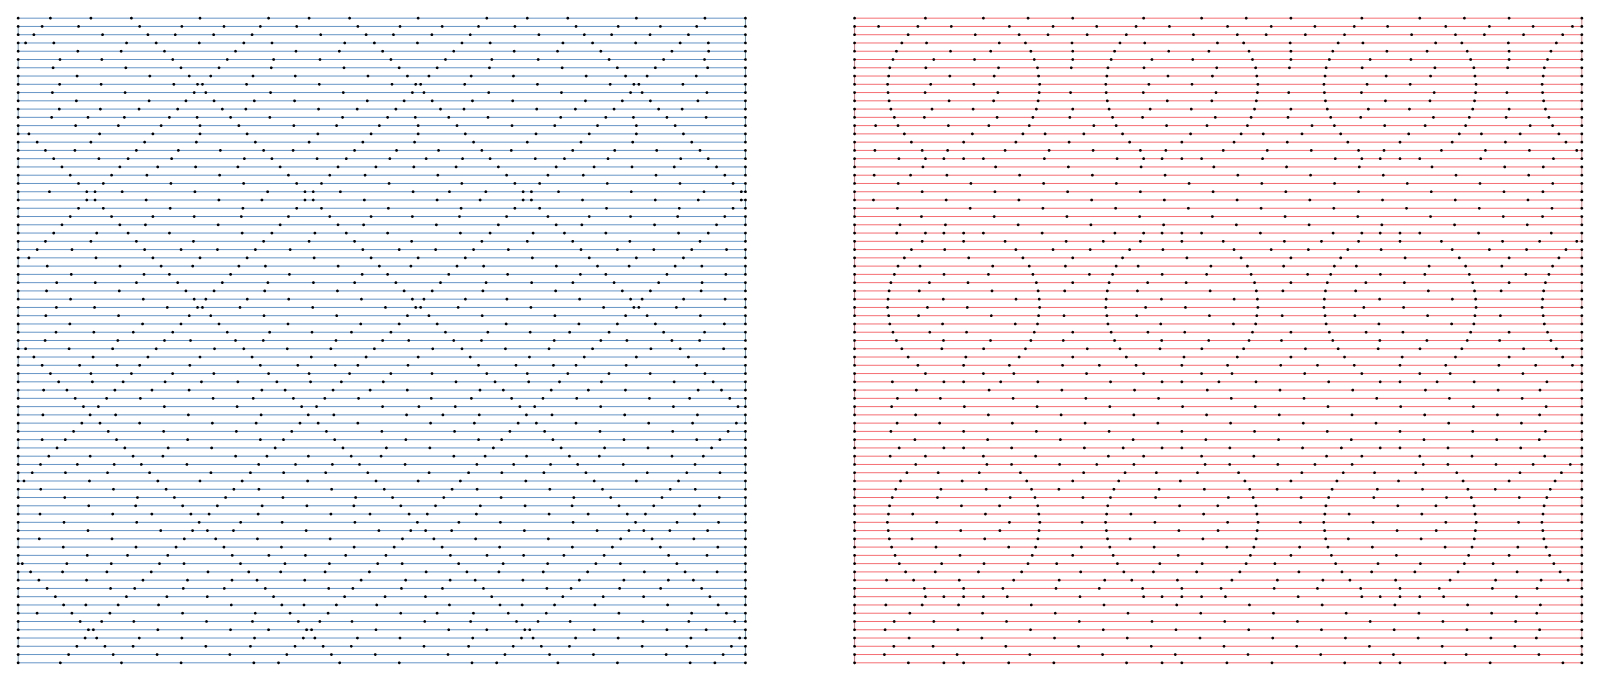
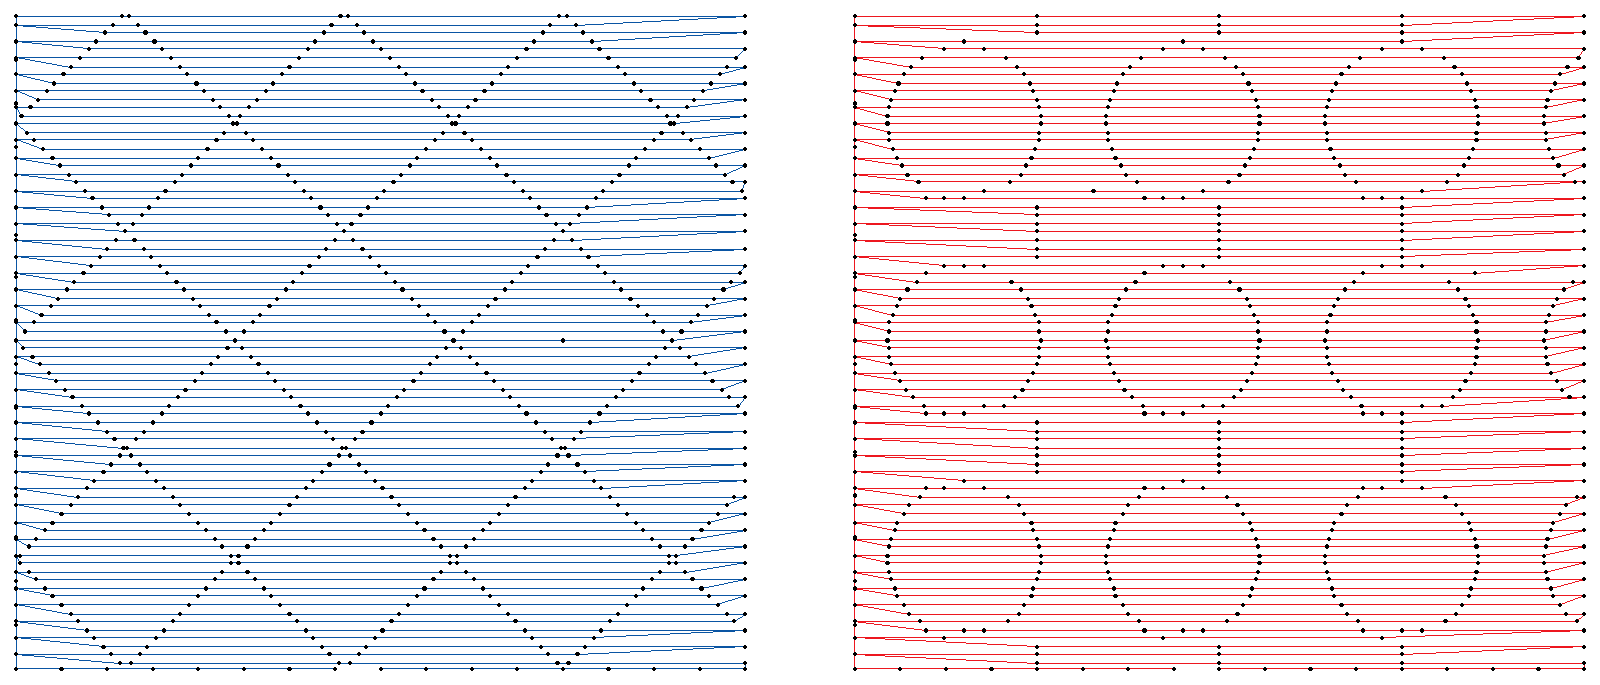
Motif fill travels and ties as PE-DESIGN 11.50 (130 needle points as PE); engine-programmable-fill.png regenerated
PE-DESIGN's motif fill (compat/reference/stitches/motif-fill-2pt.pes) starts at the row nearest
the start point, walks the outline between rows and to and from the start point in even steps
of at most 2 mm (5 mm in three), and ties in and locks like fill. OpenStitch started at the far
row, joined rows with one stitch at the run pitch and travelled at 2.5 mm: 103 needle points
against PE's 130, now 130. The change is scoped to motif fill: the shared join keeps the run
pitch for every other region type (the concentric and spiral references are unchanged); the
spec motif-fill-2pt gains a count check within 3 %.

docs/images/engine-programmable-fill.png shows the PE-DESIGN tiling from #165, drawn by the new
tools/engine_image.py (stitchtool exec, PES export, stitches in thread colours, needle points
as dots); the example turns under sewing off so the pattern shows.

Docs: FILE_FORMATS, FEATURE_MATRIX, COMPATIBILITY_AUDIT, ROADMAP, ARCHITECTURE.

diff --git a/tools/engine_image.py b/tools/engine_image.py
@@ -1,0 +1,87 @@
+#!/usr/bin/env python3
+"""Draws an examples/*.json design as a docs/images/engine-*.png stitch plot.
+
+    cargo build -p stitchtool
+    python3 tools/engine_image.py examples/programmable-fill.json docs/images/engine-programmable-fill.png
+
+The script runs with `stitchtool exec` in a temporary folder, the design is exported as PES and
+its stitches are read back (tools/pescmp.py's reader). Each colour block is drawn in the thread
+colour of the object it belongs to (the example's shapes in order, one block each), stitches as
+lines and needle points as black dots, on white, at the width given (default 1600 px) with a
+small margin. Jumps and trims are not drawn. Needs numpy and Pillow.
+"""
+
+import argparse
+import json
+import shutil
+import subprocess
+import sys
+import tempfile
+from pathlib import Path
+
+from PIL import Image, ImageDraw
+
+ROOT = Path(__file__).resolve().parent.parent
+sys.dont_write_bytecode = True
+sys.path.insert(0, str(ROOT / "tools"))
+import pescmp  # noqa: E402
+
+EXE = ROOT / "target" / "debug" / ("stitchtool.exe" if sys.platform == "win32" else "stitchtool")
+MARGIN = 16
+
+
+def run(script: Path, work: Path):
+    steps = json.loads(script.read_text(encoding="utf-8"))
+    ids = [i + 1 for i, s in enumerate(s for s in steps if s.get("command", "").startswith("shape."))]
+    steps = steps + [{"command": "design.export", "params": {"path": "out.pes"}}]
+    steps += [{"command": "object.get", "params": {"id": i}, "id": f"object-{i}"} for i in ids]
+    (work / "script.json").write_text(json.dumps(steps), encoding="utf-8")
+    out = subprocess.run([str(EXE), "exec", str(work / "script.json")], capture_output=True, text=True, check=True)
+    replies = [json.loads(line) for line in out.stdout.splitlines() if line.strip()]
+    colours = []
+    for r in replies[-len(ids):]:
+        obj = r.get("result", {})
+        t = (obj.get("region") or obj.get("line") or {}).get("thread", {})
+        colours.append((t.get("red", 0), t.get("green", 0), t.get("blue", 0)))
+    return pescmp.read(work / "out.pes"), colours
+
+
+def draw(f, colours, width):
+    pts, kinds = f["pts"], f["kinds"]
+    sewn = [i for i, k in enumerate(kinds) if k == "stitch"]
+    xs = [pts[i][0] for i in sewn]
+    ys = [pts[i][1] for i in sewn]
+    x0, y0 = min(xs), min(ys)
+    scale = (width - 2 * MARGIN) / (max(xs) - x0)
+    height = int(round((max(ys) - y0) * scale)) + 2 * MARGIN
+    img = Image.new("RGB", (width, height), "white")
+    d = ImageDraw.Draw(img)
+    at = lambda i: (MARGIN + (pts[i][0] - x0) * scale, MARGIN + (pts[i][1] - y0) * scale)  # noqa: E731
+    for a, b in zip(range(len(kinds)), range(1, len(kinds))):
+        if kinds[a] == "stitch" and kinds[b] == "stitch" and pts[a][2] == pts[b][2]:
+            block = int(pts[b][2])
+            d.line([at(a), at(b)], fill=colours[min(block, len(colours) - 1)], width=1)
+    for i in sewn:
+        x, y = at(i)
+        d.ellipse([x - 1.6, y - 1.6, x + 1.6, y + 1.6], fill="black")
+    return img
+
+
+def main():
+    ap = argparse.ArgumentParser()
+    ap.add_argument("script", type=Path)
+    ap.add_argument("out", type=Path)
+    ap.add_argument("--width", type=int, default=1600)
+    a = ap.parse_args()
+    work = Path(tempfile.mkdtemp(prefix="engine-image-"))
+    try:
+        f, colours = run(a.script.resolve(), work)
+        img = draw(f, colours, a.width)
+        img.quantize(colors=64).save(a.out, optimize=True)
+        print(a.out, img.size, len(f["kinds"]), "records")
+    finally:
+        shutil.rmtree(work, ignore_errors=True)
+
+
+if __name__ == "__main__":
+    main()

diff --git a/crates/openstitch-design/src/regions.rs b/crates/openstitch-design/src/regions.rs
@@ -22,6 +22,11 @@ const MAX_POINTS: usize = 2_000_000;
 /// OpenStitch's general long-stitch bound, 12 mm.
 pub const PROGRAMMABLE_MAX_STITCH: f64 = 120.0;
 
+/// Longest travel stitch of a motif fill, 0.1 mm: between rows and from the start point and
+/// back, PE-DESIGN 11.50 walks the outline in even steps of at most 2 mm
+/// (compat/reference/stitches/motif-fill-2pt.pes).
+pub const MOTIF_FILL_TRAVEL_PITCH: f64 = 20.0;
+
 /// Layers (runs) of region type `r.kind` (not fill or satin), rows at `angle` degrees.
 pub fn generate(
     closed: &[Contour],
@@ -40,6 +45,7 @@ pub fn generate(
         holes,
         travel: r.travel_path().is_some(),
         pitch,
+        join_pitch: pitch.max(10.0),
     };
     match r.kind {
         RegionType::Fill | RegionType::Satin => Vec::new(),
@@ -99,7 +105,24 @@ pub fn generate(
                 .chain(std::iter::once(v2(period, ph / 2.0)))
                 .collect();
             let shift = r.row_offset.unwrap_or(50.0) / 100.0;
-            let rows = tile_rows(closed, holes, angle, &unit, period, ph + spacing, shift);
+            let mut rows = tile_rows(closed, holes, angle, &unit, period, ph + spacing, shift);
+            // PE-DESIGN starts at the row nearest the start point and walks the outline
+            // between rows in even steps of at most 2 mm (motif-fill-2pt.pes: 5 mm in three).
+            if let (Some(e), Some(first), Some(last)) = (
+                r.entry,
+                rows.first().and_then(|p| p.first()).copied(),
+                rows.last().and_then(|p| p.last()).copied(),
+            ) && last.distance(e) < first.distance(e)
+            {
+                rows.reverse();
+                for row in &mut rows {
+                    row.reverse();
+                }
+            }
+            let region = Region {
+                join_pitch: MOTIF_FILL_TRAVEL_PITCH,
+                ..region
+            };
             vec![region.sequence(rows)]
         }
         RegionType::DecorativeFill => {
@@ -215,6 +238,8 @@ struct Region<'a> {
     holes: &'a [Contour],
     travel: bool,
     pitch: f64,
+    /// Longest stitch of the travel that joins pieces.
+    join_pitch: f64,
 }
 
 impl Region<'_> {
@@ -250,7 +275,7 @@ impl Region<'_> {
     fn sequence_raw(&self, runs: Vec<Run>) -> Vec<Run> {
         let runs: Vec<Run> = runs.into_iter().filter(|r| r.len() >= 2).collect();
         let mut graph = self.graph();
-        join(runs, graph.as_mut(), self.pitch.max(10.0))
+        join(runs, graph.as_mut(), self.join_pitch)
     }
 
     /// Runs whose stitches are already final (cross stitch groups): ordered, joined.

diff --git a/crates/openstitch-design/src/compile.rs b/crates/openstitch-design/src/compile.rs
@@ -7,6 +7,7 @@ use crate::model::{
 };
 use crate::patterns::{self, Pattern, PatternKind};
 use crate::region;
+use crate::regions;
 use crate::route;
 use crate::stamp;
 use openstitch_core::{Command, Stitch, StitchPattern, Thread, round_coordinate};
@@ -372,7 +373,14 @@ fn elements(object: &DesignObject, holes: &[Contour], user: &[Pattern]) -> Vec<E
                 ) {
                     runs
                 } else {
-                    route::route_region(runs, &closed, region.entry, region.exit, 25.0)
+                    // Travel from the start point and to the end point: PE-DESIGN's motif fill
+                    // walks it in steps of at most 2 mm (motif-fill-2pt).
+                    let pitch = if region.kind == RegionType::MotifFill {
+                        regions::MOTIF_FILL_TRAVEL_PITCH
+                    } else {
+                        25.0
+                    };
+                    route::route_region(runs, &closed, region.entry, region.exit, pitch)
                 };
             }
             // PE-DESIGN's fill under sewing runs straight on into the top stitching.
@@ -387,8 +395,12 @@ fn elements(object: &DesignObject, holes: &[Contour], user: &[Pattern]) -> Vec<E
             {
                 layers = vec![region::join_layers(layers, &closed, holes, path)];
             }
-            // Satin and fill tie in and lock as PE-DESIGN 11 sews them.
-            if matches!(region.kind, RegionType::Satin | RegionType::Fill) {
+            // Satin, fill and motif fill tie in and lock as PE-DESIGN 11 sews them
+            // (motif-fill-2pt: one 0.3 mm step out and back at the start and at the end).
+            if matches!(
+                region.kind,
+                RegionType::Satin | RegionType::Fill | RegionType::MotifFill
+            ) {
                 region::tie_and_lock(&mut layers);
             }
             for runs in layers {

diff --git a/docs/FEATURE_MATRIX.md b/docs/FEATURE_MATRIX.md
@@ -95,7 +95,7 @@ PE-DESIGN reference, sew-out) is generated from the compatibility report into
 | Line sew types | Motif (OpenStitch's own motif library, `openstitch.pattern` format; size, spacing, arrange, run pitch), stem (width, spacing, angle, single/triple), candlewicking (size, density, spacing), E/V (interval, stroke width, run/stroke times, arrange), chain (triangle/diamond, size, times, arrange), cutting (four cutwork needles by direction, leave-uncut bridges); zigzag half stitch | Implemented | `object.setLine`, `patterns.list`; `motif_line_repeats_inside_its_band_with_short_stitches`, `motif_line_closes_on_a_closed_contour`, compat `line-motif-zigzag-3pt` (reference: a whole number of motifs stretched to fill an open line, as PE-DESIGN 11.50), `stem_stitches_slant_across_the_line`, `candlewick_knots_sit_on_the_line`, `e_and_v_strokes_reach_the_stroke_width`, `chain_links_stay_within_their_size`, `cutting_lines_go_to_the_needle_matching_their_direction`, `cutting_needles_are_separate_colour_blocks`, `half_stitch_thins_the_inner_side_of_bends`, `pattern_format_rejects_bad_documents`, `every_line_type_is_set_sewn_saved_and_undone`, `bad_line_parameters_fail_cleanly`; examples/line-types.json, docs/images/engine-line-types.png | Stem, candlewicking (Medium) and chain triangles calibrated against PE-DESIGN (compat `line-stem-default`, `line-candlewick-default`, `line-chain-default`); Start/End Type Feed/Run calibrated for closed stem, candlewicking and chain triangles (compat `line-*-startend-*`); still to do: motif, candlewicking Low/High, chain diamond; user-loaded motif files; cutwork needle angles of PE-DESIGN's cutwork machines |
 | Region sew types | Satin: a zigzag across the column (the first row sewn across, then one needle point per row on alternate edges; also Manual Punch columns and skeleton satin); manual or auto direction (satin: rows along a derived skeleton, perpendicular to the local axis, PE-DESIGN's corner fan, rungs at whole spacings from the far end, start travel forward along the outline 0.5 mm inside it and one needle point per rung ending on the start point, no Running Stitch Path choice; fill and fallbacks: across the narrow side, principal axis), density, pull compensation; under sewing types as the exclusive `underlayStyle` (PE-DESIGN's buttons are exclusive radio buttons: edge / zigzag / edgeZigzag / double / edgeFill / cross), each a set of combinable parts underneath (`underlayParts`: edge run, rows across the direction, lattice, piping; combining them freely is OpenStitch's own extension), PE-DESIGN's Density Dense / Medium / Light (`underlayDensity`: rows 1.4 / 2.0 / 3.5 mm nominal, on both inset edges with the nearest whole number of gaps; `underlaySpacing` overrides), a Manual Punch column's under sewing 0.5 mm inside its rails (edge run, piping down the middle, zigzag between the rails in diagonals split to the stitch length; PE-DESIGN's five column buttons map onto the styles: types 1 and 2 = edge run, rows across the direction, lattice, piping; combining them freely is OpenStitch's own extension), PE-DESIGN's Density Dense / Medium / Light (`underlayDensity`: rows 1.4 / 2.0 / 3.5 mm nominal, on both inset edges with the nearest whole number of gaps; `underlaySpacing` overrides), a Manual Punch column's under sewing 0.5 mm inside its rails (edge run, piping down the middle, zigzag between the rails in diagonals split to the stitch length; PE-DESIGN's five column buttons map onto the styles: types 1 and 2 = edge + piping + piping + zigzag (edgeZigzag, double), types 3 and 5 = edge, type 4 = piping + zigzag (zigzag); round-4 captures satin-col-us-*: 275 stitches to PE-DESIGN's 286, 219 / 225, 239 / 249), PE-DESIGN's second under sewing type as `cross` (edge run, then lines at the direction ∓ 45° in two halves from the far corners; spec sweep-satin-us-type-2, 395 stitches to PE-DESIGN's 404); gradation (PE-DESIGN's pattern: Max/Min % of density, falling linearly across the region, rows at equal steps of the cumulative line count from edge to edge, default 53/5/9; on a split satin each half hops to the last line at or before the start point and sets its crossings on every other line counting back from the hop plus the far end's line, as PE-DESIGN at every density (specs sweep-satin-density-min at 0.1 lines/mm, needle for needle, and the round-3 column at 0.2, 0.3 and 0.5, record for record); on a feathered satin a single-line gap under 1 mm next to the far end is not crossed, those crossings spread evenly (satin-feather), plain satin crosses it at every size and stretches its lattice to floor(length × density) gaps, a column started at one end is sewn from its far end back to the start point (pe-refs-4's satin-length-sweep, #122); a gradation row within 0.05 mm of the start point is the second half's hop only (satin-gradation): spec satin-gradation, needle for needle with PE-DESIGN 11.50, 37 stitches; old far-side percentages sew as before); feathered edge (start, end, both; width); splitting long stitches (staggered); variable-direction satin along a skeleton (`shape.skeletonSatin`, `object.setSkeleton`: centre line with a width per point, stitches perpendicular to the line and turning smoothly through bends; saved in .osd as the optional `skeleton`); skeleton derived from a shape (`object.deriveSkeleton`: an approximation of the medial axis — grid clearance, the longest path through the shape, corner ends trimmed, chord widths); editor Manual Punch ▸ Satin Skeleton tool (pen-like centre line, a width handle either side of each point, Column width; edits a selected stored skeleton) and Shapes ▸ Satin Skeleton from Shape | Implemented | `object.setRegion`; `stitches_are_perpendicular_to_the_centre_line`, `density_and_width_are_respected`, `degenerate_input_gives_no_nan`, `skeleton_satin_sews_across_its_centre_line`, `skeleton_on_an_existing_satin_shape`, `bad_skeleton_parameters_fail_cleanly`, `derived_skeleton_of_a_bar_runs_down_its_middle`, `derived_skeleton_follows_a_bend`, `deriving_from_nothing_gives_none`, `skeleton_derived_from_a_shape`, `deriving_a_skeleton_fails_cleanly`, `satin_skeleton_tool_draws_a_column_with_a_width_per_point`, `satin_skeleton_tool_edits_a_stored_skeleton`, `satin_skeleton_needs_a_line`; `satin_one_needle_point_per_row_with_pull_compensation`, `auto_direction_sews_across_the_narrow_side`, `satin_compat.rs` (audit items 1 and 7: `region_satin_sews_a_zigzag_across_the_column`, `manual_punch_column_sews_a_zigzag`, `skeleton_satin_sews_a_zigzag`, `pull_compensation_widens_the_zigzag`, `auto_direction_satin_follows_a_bent_band`; reference tier for Auto satin bends: satin-auto-bend-30/45/60/75/90 and -nohalf twins, auto-satin-bent-band; `machine-satin-width-16/18/20/22/25/30`: 16–30 mm crossings sent whole), `underlay_styles_layer_inside_the_region`, `under_sewing_density_sets_the_row_count_with_rows_on_the_inset_edges`, `under_sewing_parts_combine_and_name_themselves`, `column_under_sewing_sews_the_edge_the_piping_and_the_zigzag_as_pe_design`, `gradation_spreads_rows_towards_the_far_side`, `gradation_pattern_sews_rows_at_equal_steps_of_the_cumulative_line_count`, `satin_gradation_splits_on_every_other_lattice_line`, `satin_lattice_stretches_to_whole_gaps_and_crosses_every_far_end_gap`, `satin_ties_in_three_steps_after_a_three_millimetre_first_stitch`, `gradation_reads_the_old_single_percentage`, `gradation_pattern_options`, `gradation_and_feathered_edge_follow_the_guide_exclusions`, `unavailable_gradation_and_feather_are_kept_but_not_sewn`, `feathered_edges_shorten_row_ends_deterministically`, `long_satin_stitches_split_and_stagger`, `satin_and_fill_options_are_set_and_undone`, `bad_region_options_fail_cleanly`; docs/images/engine-badge.png, examples/satin-fill-options.json, docs/images/engine-satin-fill-options.png | Branching skeletons and an exact medial axis; half stitch for variable direction (PE-DESIGN offers it only there; zigzag lines have it); other gradation presets, per-step editing and two-colour blending; calibration |
 | Region sew types | Fill (tatami: angle or auto direction, density 0.1–14.0 lines/mm as PE-DESIGN 11.50's field (references sweep-fill/satin-density-min; #139's 0.2 floor contradicted), stitch length, Frequency 0–50 % needle shift per row (default 30 % as PE-DESIGN; older files without one keep ⅓), stagger regular (the Frequency brick) or random (`stagger: random`, seeded by `staggerSeed`, reproducible, no two rows alike; OpenStitch's own, PE-DESIGN's Fill pane has no random stagger), PE-DESIGN's row order (halves from the start point, brick row ends, straight 2 mm travel, tie-in and lock), pull compensation, holes, under sewing parts and Density (PE-DESIGN's first type as `edgeFill` = edge + rows, its second as `cross` = edge + lattice: spec sweep-fill-us-type-2, 2650 stitches to PE-DESIGN's 2651; Dense / Light rows 1.407 / 3.455 mm apart on the inset square as PE-DESIGN's: specs sweep-fill-us-density-dense/-light), gradation, feathered edge); Running Stitch Path for fill and satin (`runningStitchPath`: Inside of region (default), Along outline, On outline; running stitches between separate parts, no trims or jumps; not offered with Auto direction, a feathered edge or text, Inside not with gradation; old `.osd` `travel` values still load) | Implemented (reference tier: fill-frequency-*, region-travel-u-*, sweep-fill-*, u-gradation-* (Max/Min, pattern 2, Direction 90; patterns 3–8 and Blend routing only), square-gradation-default/-30-10) | `fill_and_satin_travel_between_parts_without_trims`, `the_outline_paths_differ_from_inside_travel`, `running_stitch_path_follows_the_guide_exclusions`, `running_stitch_path_defaults_and_old_files`, `old_fill_without_travel_still_jumps`, `fill_frequency_sets_the_row_to_row_needle_shift`, `regular_stagger_is_the_frequency_brick_and_the_third_without_one`, `random_stagger_is_seeded_reproducible_and_does_not_repeat`, `outline_travel_walks_on_or_just_inside_the_outline`, `fill_inside_rows_bounded_and_staggered`, `hole_contour_splits_rows`, `separated_parts_become_separate_runs`, `travel_stays_inside_instead_of_jumping`, `travel_graph_routes_around_a_notch`; docs/images/engine-satin-fill-options.png | Calibrate defaults and the Along outline inset (0.5 mm placeholder); what PE-DESIGN sews where the attribute is unavailable (OpenStitch travels inside); Stitch Type (turning ends) and Half Stitch need reference geometry; manual curve direction |
-| Region sew types | Programmable fill (OpenStitch's own tile library in `openstitch.pattern`; needle points only where the rows cross the pattern's lines, the tile on the page axes from the region's top-left corner, rows sharing their turning points, gaps unsplit up to 12 mm, as PE-DESIGN 11.50; 45° default direction (guide); size, row/column offset, base sewing with frequency 0–50 %), motif fill (library motifs in rows, each base line in the middle of its band from the region's top edge; size, spacing, row offset, run pitch), piping (running-stitch rows, frequency), cross stitch (whole cells inside, single/triple, size) | Implemented | `object.setRegion`, `patterns.list`; `every_region_type_sews_inside_with_bounded_stitches`, `every_pattern_of_every_patterned_type_sews`, `programmable_fill_puts_needle_points_on_the_pattern`, `programmable_fill_defaults_to_45_degrees`, `piping_rows_shift_by_the_frequency`, `cross_stitch_sews_an_x_in_every_cell`, `motif_fill_repeats_the_motif_in_rows`, `every_region_type_is_set_sewn_saved_and_undone`, compat `prog-fill-square-4pt`, `prog-fill-line-2pt`, `motif-fill-2pt` (reference: PE-DESIGN 11.50's fills of owner-made patterns, counts within 3 %, needle points within 0.2 mm), `bad_region_type_parameters_fail_cleanly`; examples/region-types.json, docs/images/engine-region-types.png, examples/programmable-fill.json, docs/images/engine-programmable-fill.png | Whether a type change keeps the old direction (it does now; needs reference); the motif fill's travel between rows (PE-DESIGN walks the outline at 2 mm: 130 needle points against 103); the programmable fill's pattern Direction; Motif Pattern1/Pattern2 combinations and H/V arrange; calibration (user patterns: see Programmable Stitch Creator) |
+| Region sew types | Programmable fill (OpenStitch's own tile library in `openstitch.pattern`; needle points only where the rows cross the pattern's lines, the tile on the page axes from the region's top-left corner, rows sharing their turning points, gaps unsplit up to 12 mm, as PE-DESIGN 11.50; 45° default direction (guide); size, row/column offset, base sewing with frequency 0–50 %), motif fill (library motifs in rows, each base line in the middle of its band from the region's top edge, rows from the one nearest the start point, travel along the outline in steps of at most 2 mm, tie-in and lock, as PE-DESIGN 11.50; size, spacing, row offset, run pitch), piping (running-stitch rows, frequency), cross stitch (whole cells inside, single/triple, size) | Implemented | `object.setRegion`, `patterns.list`; `every_region_type_sews_inside_with_bounded_stitches`, `every_pattern_of_every_patterned_type_sews`, `programmable_fill_puts_needle_points_on_the_pattern`, `programmable_fill_defaults_to_45_degrees`, `piping_rows_shift_by_the_frequency`, `cross_stitch_sews_an_x_in_every_cell`, `motif_fill_repeats_the_motif_in_rows`, `every_region_type_is_set_sewn_saved_and_undone`, compat `prog-fill-square-4pt`, `prog-fill-line-2pt`, `motif-fill-2pt` (reference: PE-DESIGN 11.50's fills of owner-made patterns, counts within 3 %, needle points within 0.2 mm; motif fill 130 needle points as PE), `bad_region_type_parameters_fail_cleanly`; examples/region-types.json, docs/images/engine-region-types.png, examples/programmable-fill.json, docs/images/engine-programmable-fill.png | Whether a type change keeps the old direction (it does now; needs reference); which way the motif fill walks when both ends of its first row are as near the start point (PE-DESIGN went right on its one reference, OpenStitch goes left); the programmable fill's pattern Direction; Motif Pattern1/Pattern2 combinations and H/V arrange; calibration (user patterns: see Programmable Stitch Creator) |
 | Region sew types | Concentric circle and spiral as PE-DESIGN 11.50 sews them (#138; Density default 2.0 lines/mm, Run pitch 2.0 mm, Start Point first/second button = `startInside`): concentric circle = circles about the centre one row apart, the whole ones from the largest inwards from one radial seam (where the first cut circle meets the outline walking counter-clockwise from R1), a trim, then the cut ones outwards as arcs, 4·2ⁿ needle points a circle (at least 16) on the 0.1 mm grid; spiral = one path from R1 on the outline, the outline offset a row inwards per turn to the middle (rectangular turns on a rectangle, a spiral round a hole too), 4·2ⁿ points a smooth turn, corners kept; the second button sews either backwards; no travel to R1/R2 (PE jumps in and ends where the pattern ends); an inner shape whose region is Not Sewn stays a hole; radial (lines thinned towards the centre), flexible spiral (outline shrunk turn by turn), start inside/outside; stippling (random spanning tree, fixed seed, non-crossing closed path); net fill (square, diamond, triangle, honeycomb, star, crossed waves); zigzag net fill (first four, width, density, under sewing); decorative fill (OpenStitch's own row patterns, size, random shift); travel around the edges / inside the region (minimize feed) | Implemented (reference tier: concentric-circle40, -start2, -d1p0, -d3p0, -pitch3p0, concentric-rect40x30, concentric-ring40-hole15, spiral-circle40, -start2, -d1p0, -d3p0, -pitch3p0, spiral-rect40x30, spiral-ring40-hole15) | `concentric_circle_sews_whole_circles_outside_in_then_the_cut_ones`, `concentric_circle_on_a_rectangle_seams_where_the_first_cut_circle_leaves_the_bottom`, `concentric_circle_skips_a_hole_and_start_point_two_reverses_it`, `spiral_starts_on_the_outline_and_closes_in_a_row_per_turn`, `spiral_turns_on_a_rectangle_are_rectangles_a_row_apart_on_both_axes`, `spiral_round_a_hole_never_sews_into_it_and_start_point_two_reverses_it`, `both_types_default_to_pe_designs_density_and_sew_through_the_region_code`, `circles_and_spirals_start_where_asked`, `radial_lines_thin_out_towards_the_centre`, `stippling_is_a_closed_path_that_never_crosses_itself`, `square_net_lines_are_straight_and_axis_aligned`, `region_types_without_travel_jump_between_parts`; docs/images/engine-region-types.png | Open: the pitch-3.0 spiral count (PE 1354, OpenStitch 1284, internal-tier check) and the ring spiral count (PE 1952 with 64 trims, OpenStitch 1473); concentric: PE splits more chords inside a circle (counts within 3 %), the seam on a Bézier circle (PE's 9 o'clock depends on its outline flattening); spiral: the winding on a circle (PE turns against its outline there, with it on a rectangle), the meeting band of a spiral with a hole (PE: about 30 trimmed pieces, 64 trims; OpenStitch one travel, count not compared), the return run PE sews on a rectangle after the middle; moving the centre point; PE-DESIGN's concentric/radial effects (Design Center); stippling with motifs; radial, flexible spiral and stippling calibration |
 | Wizards | Background fill around a pattern | Documented | Guide: Tutorial 8 |  |
 | Wizards | Appliqué, embroidered patch, cutwork (net stitching) | Documented | Guide: Tutorials 9-1…9-3 |  |

diff --git a/docs/FILE_FORMATS.md b/docs/FILE_FORMATS.md
@@ -913,13 +913,17 @@ patterns, `compat/reference/stitches/prog-fill-*.pes`, `motif-fill-2pt.pes`,
   tiles, OpenStitch 2329 and 1636; every OpenStitch needle point lies within 0.2 mm of one of
   PE-DESIGN's (mean 0.10 and 0.11 mm).
 - **Motif fill:** the same grid origin; each motif's base line runs through the middle of its
-  row band, so the first row lies half a motif below the region's top edge.
+  row band, so the first row lies half a motif below the region's top edge. The rows start at
+  the one nearest the start point; travel between rows and to and from the start point walks
+  the outline in even steps of at most 2 mm (5 mm in three steps of 1.67 mm), with the fill's
+  0.3 mm tie-in and lock: 130 needle points, as PE-DESIGN (2026-10-30).
 - **Motif line:** a whole number of motifs, stretched along the line to fill it from end to end,
   on open and closed lines alike (8 motifs of 4.94 mm on a 39.5 mm line at the 5 mm size).
 
-Not yet the same: PE-DESIGN's motif fill travels between rows along the outline at 2 mm
-(130 needle points against OpenStitch's 103, which joins rows with one stitch), and its motif
-line adds tie-in and tie-off stitches (23 against 16).
+Not yet the same: when both ends of the first motif-fill row are as far from the start point,
+PE-DESIGN walks right and comes back down the right edge where OpenStitch walks left (the same
+needle points mirrored; one reference cannot tell PE-DESIGN's tie-break), and its motif line adds
+tie-in and tie-off stitches (23 against 16).
 
 ### Text pattern sources (`.pas`, `.pmf`, `.plf`)
 

diff --git a/docs/COMPATIBILITY_AUDIT.md b/docs/COMPATIBILITY_AUDIT.md
@@ -1248,9 +1248,11 @@ Line references are relative to `crates/`.
   motifs (`line-motif-zigzag-3pt`). The import mapped a motif's cross offset at twice its size
   (fixed: 1024 cell units are one motif size). A reference point was ignored for programmable
   and motif fills, and a user pattern fell back to the default with a reference point or a
-  curved direction (both fixed). Left: the motif fill's travel between rows (PE-DESIGN walks the
-  outline at 2 mm: 130 needle points against 103) and the motif line's tie stitches (23
-  against 16).
+  curved direction (both fixed). The motif fill's travel is PE-DESIGN's since 2026-10-30: rows
+  from the one nearest the start point, travel along the outline in even steps of at most
+  2 mm, the fill's tie-in and lock (130 needle points against PE-DESIGN's 130, was 103; spec
+  `motif-fill-2pt` now checks the count within 3 %). Left: the motif line's tie stitches (23
+  against 16) and which way PE-DESIGN walks when both ends of the first row are as near.
   Second round of captures, 2026-10-29 (pe-refs-4, inputs drawn by its `wizimg.py`):
   - **Auto Punch bars** (`autopunch-thin-strokes.pes`, nine black 40 mm bars 0.5–4 mm wide;
     `autopunch-thin-strokes-wide.pes`, seven 30 mm bars 5–14 mm; Max. Number of Colors filled

diff --git a/docs/ROADMAP.md b/docs/ROADMAP.md
@@ -297,8 +297,9 @@ with text set in it. Each lands as its own PR with the fixtures' provenance in a
 bundled patterns, motifs and fonts are never read. Done: import of `.pas`/`.pmf`/`.plf` text
 sources in the documented `@DIRECTIVE` layout, checked against six owner-made Programmable
 Stitch Creator files, and programmable fill, motif fill and motif line tiled as PE-DESIGN 11.50
-sews them (2026-10-29: four reference specs). Next: the motif fill's travel between rows and
-the motif line's tie stitches; a decorative-fill reference for free `.plf` lines. Waiting for
+sews them (2026-10-29: four reference specs); the motif fill's travel and ties as PE-DESIGN
+(2026-10-30, 130 needle points as PE). Next: the motif line's tie stitches; a decorative-fill
+reference for free `.plf` lines. Waiting for
 the owner-made samples: PE-DESIGN's own PMV files and a Font Creator font of one and two
 owner-drawn glyphs with text set in it (pe-refs-4 could not reach Font Creator and Stitch Design
 Factory). Each lands as its own PR with the fixtures' provenance in a MANIFEST.

diff --git a/docs/ARCHITECTURE.md b/docs/ARCHITECTURE.md
@@ -680,7 +680,11 @@ openstitch_app::editor (lib, no egui, unit-tested)
   chrome; screenshots ignore the saved window preferences). `python3 tools/screenshots.py`
   rebuilds the editor screenshots from examples/ in a temporary folder with a stand-in home
   folder, so no local path shows, and downscales and quantises them. The
-  images in `docs/images/rust-editor-*.png` are made this way on macOS (Metal).
+  images in `docs/images/rust-editor-*.png` are made this way on macOS (Metal). The stitch plots
+  in `docs/images/engine-*.png` need no window: `python3 tools/engine_image.py
+  examples/NAME.json docs/images/engine-NAME.png` runs the example with `stitchtool exec`,
+  exports PES and draws the stitches in their thread colours with the needle points as dots
+  (engine-programmable-fill.png regenerated this way, 2026-10-30).
 
 ## Decisions
 
